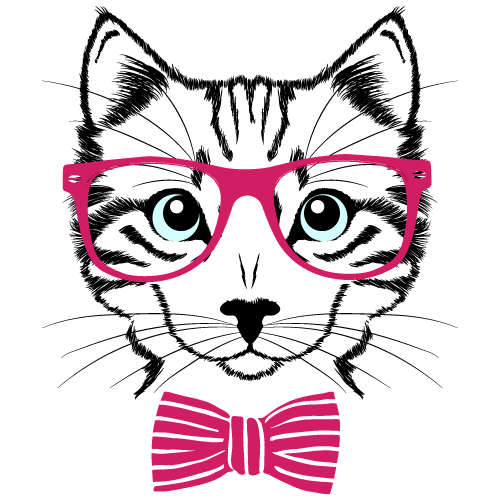
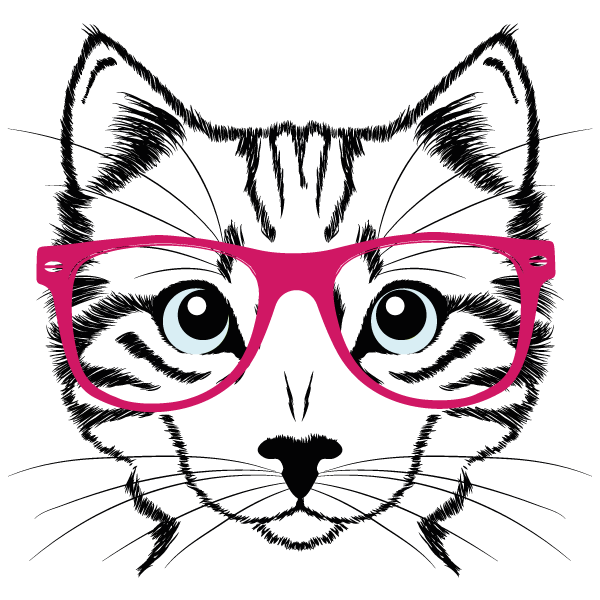
Remplacement de certaines images qui causaient des problemes d affichage

diff --git a/web/css/style.css b/web/css/style.css
@@ -586,7 +586,8 @@ figure.effect-sadie:hover p {
 }
 
 #museomix img,
-#blendWebMix img {
+#blendWebMix img,
+#fhactory img {
     display: block;
     width: 90%;
     margin: 0 auto;
